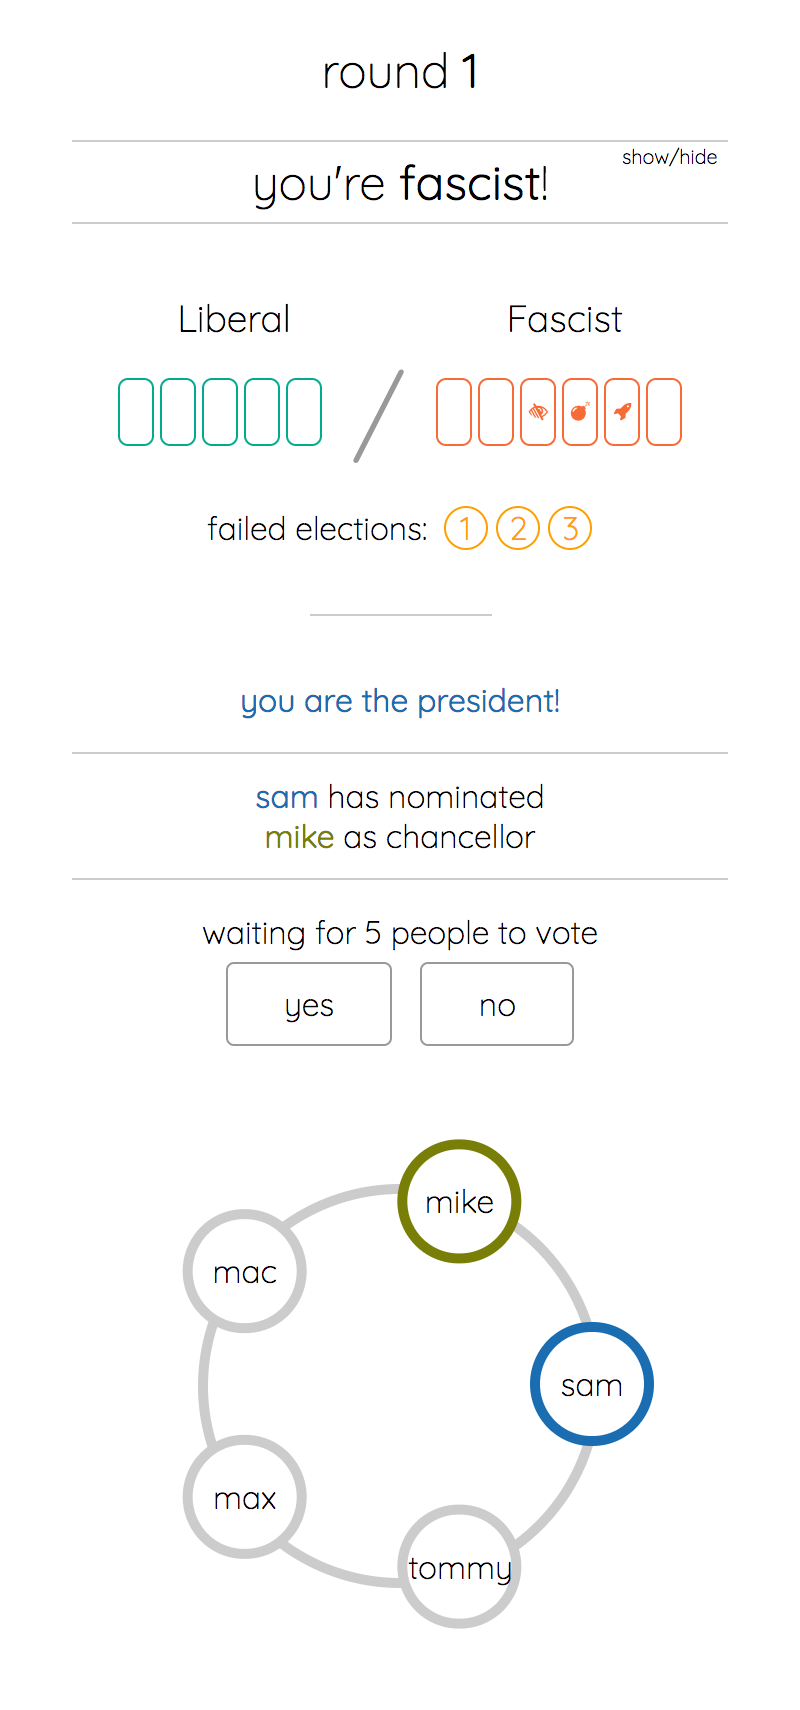
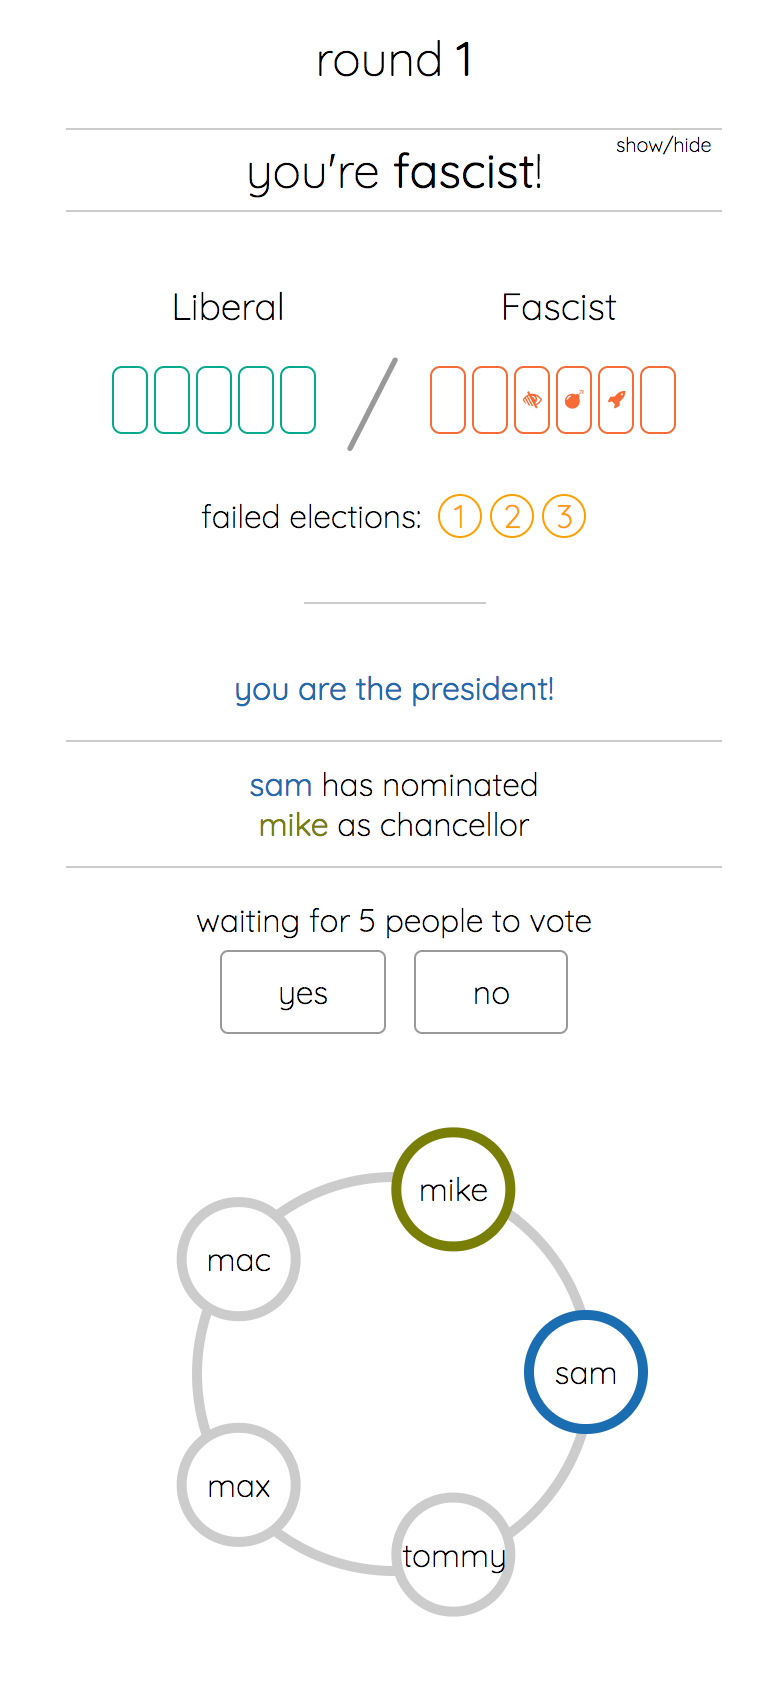
update screenshots

diff --git a/README.md b/README.md
@@ -16,16 +16,16 @@ I built this web app, Secret Hitler as a Meteor.js learning project. Uses MongoD
 
 [Official Rules](http://www.secrethitler.com/assets/Secret_Hitler_Rules.pdf)
 
-## Screenshots
+## Screenshots for Mobile view
 
-Lobby view
-![lobby-view](./docs/images/lobby_view.png)
+Lobby View
+<img src="./docs/images/lobby_view.png" width="375px" height="667px"/>
 
-Seating view
-![seating-view](./docs/images/seating_view.png)
+Seating View
+<img src="./docs/images/seating_view.png" width="375px" height="667px"/>
 
-Game view
-![game-view](./docs/images/game_view2.png)
+Game View
+<img src="./docs/images/game_view2.png" width="375px" height="667px"/>
 
 ## Technology
 
